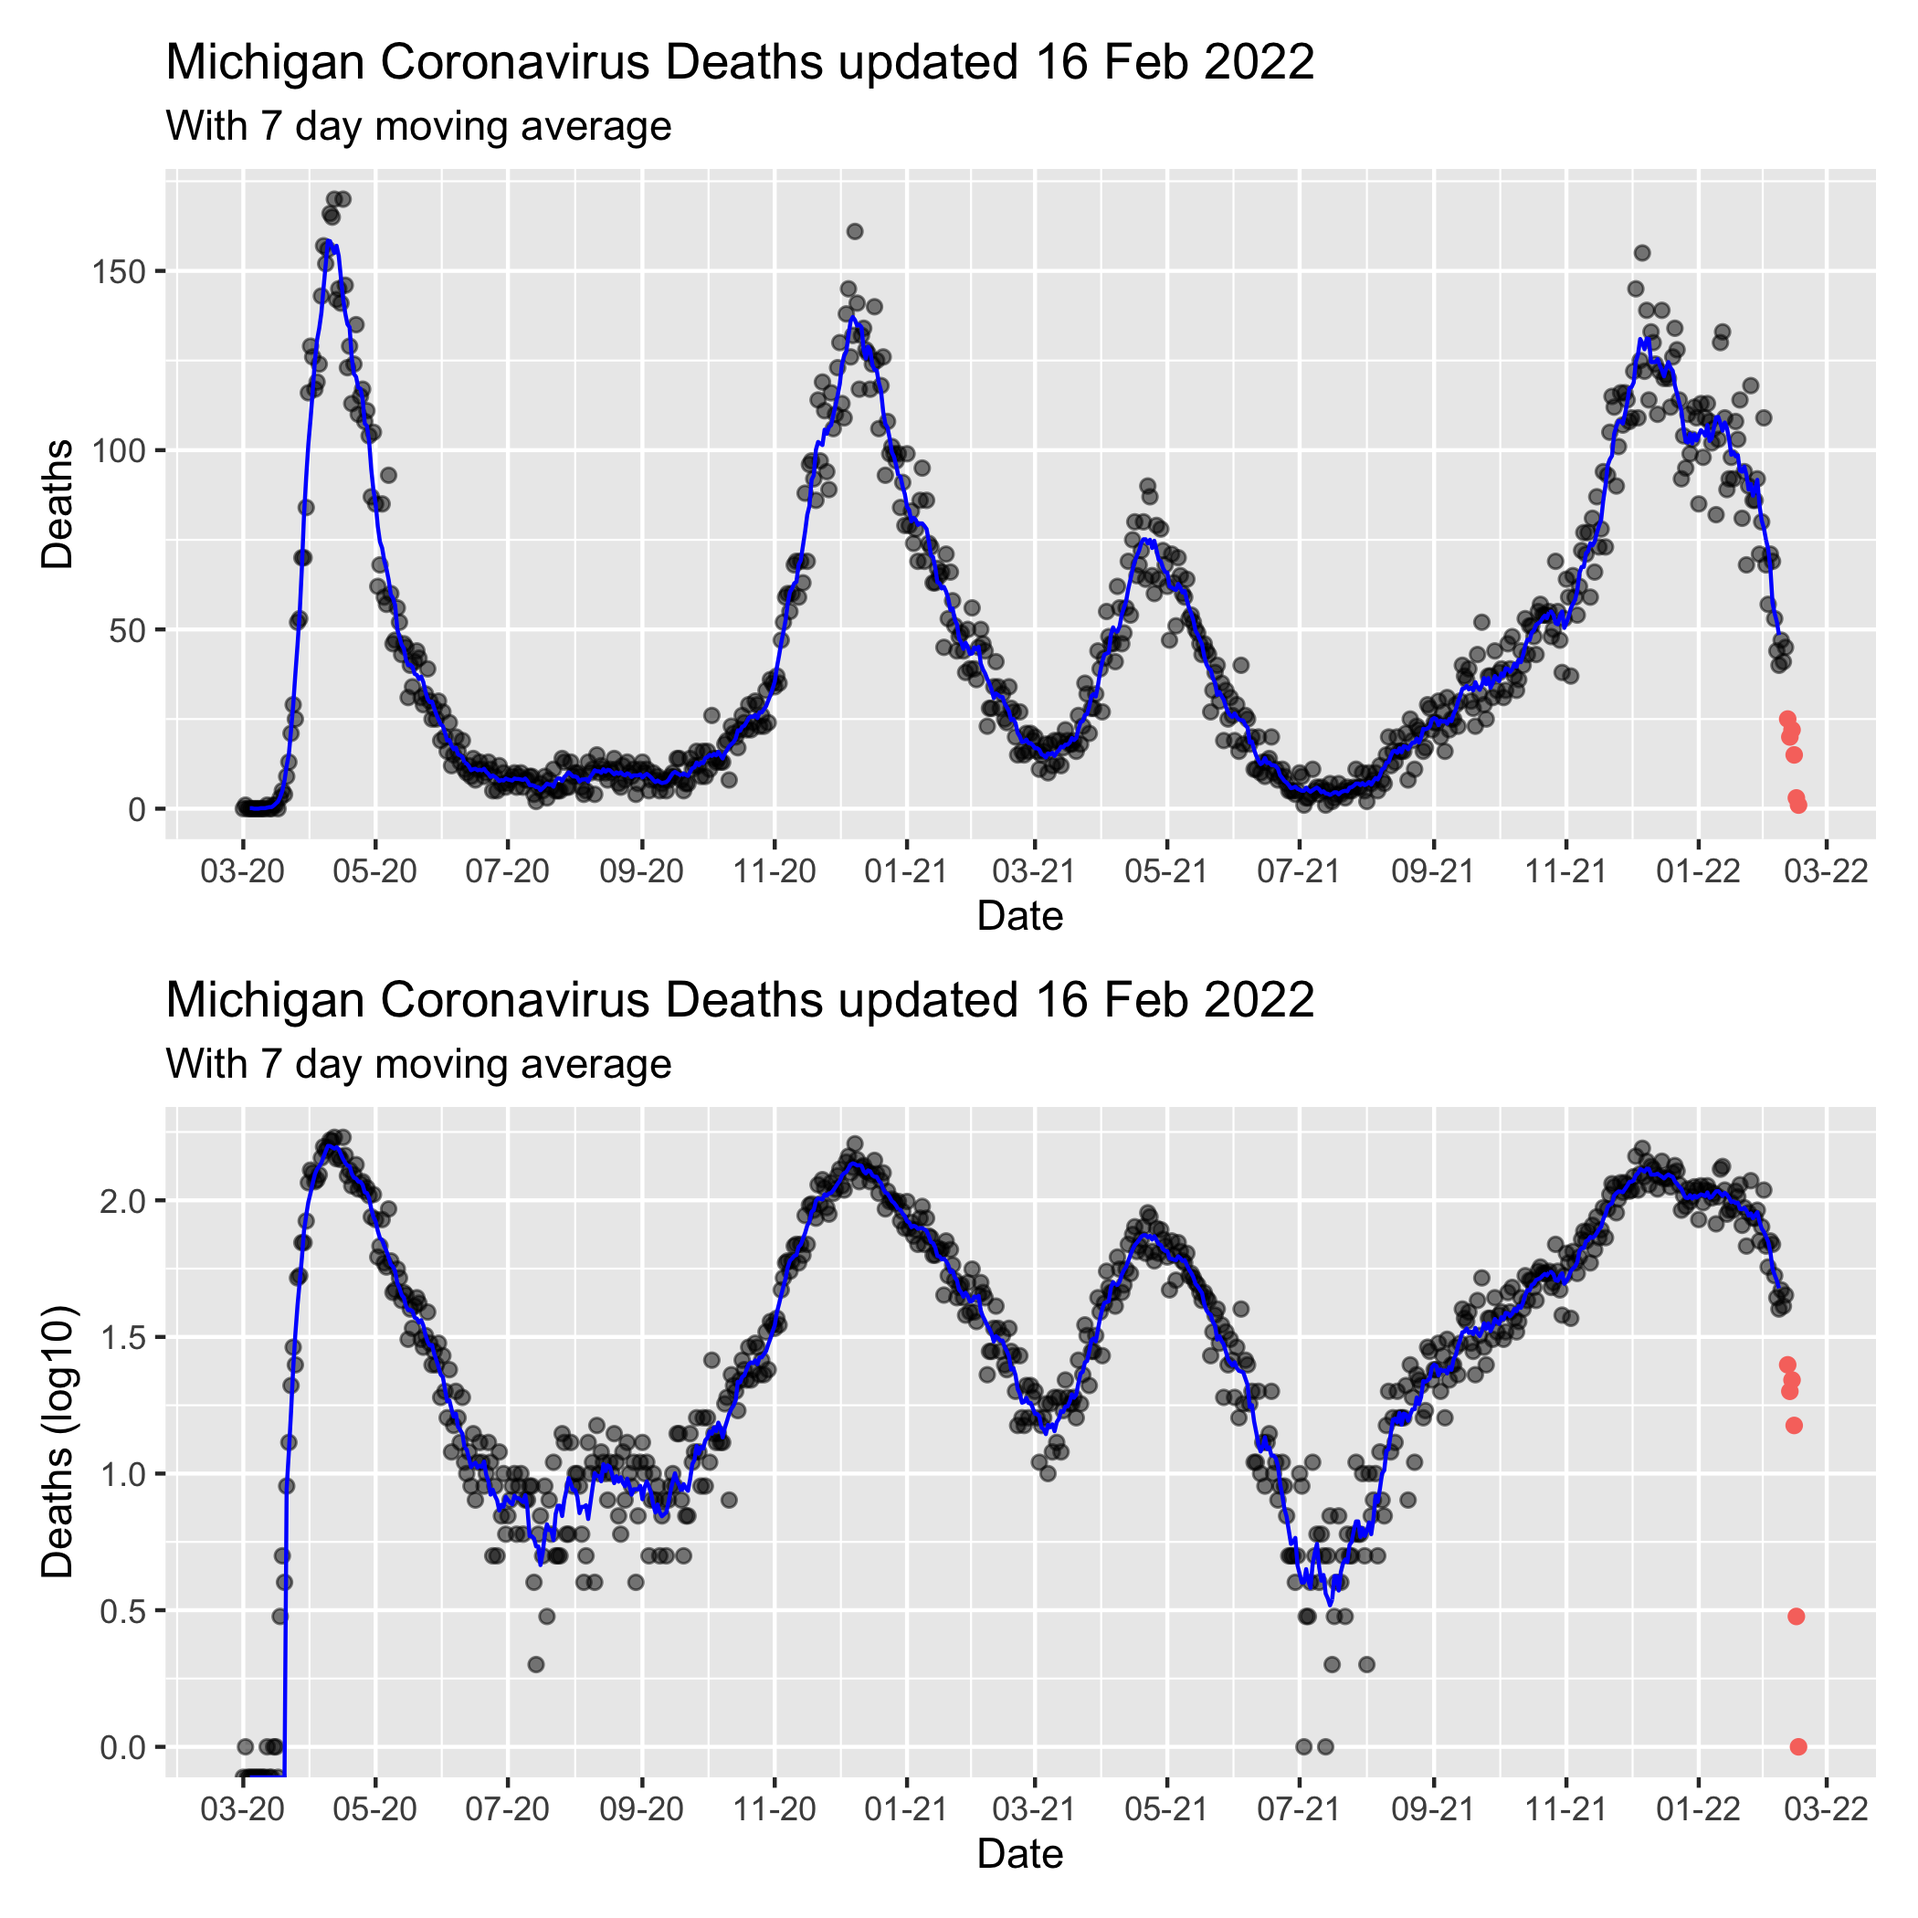
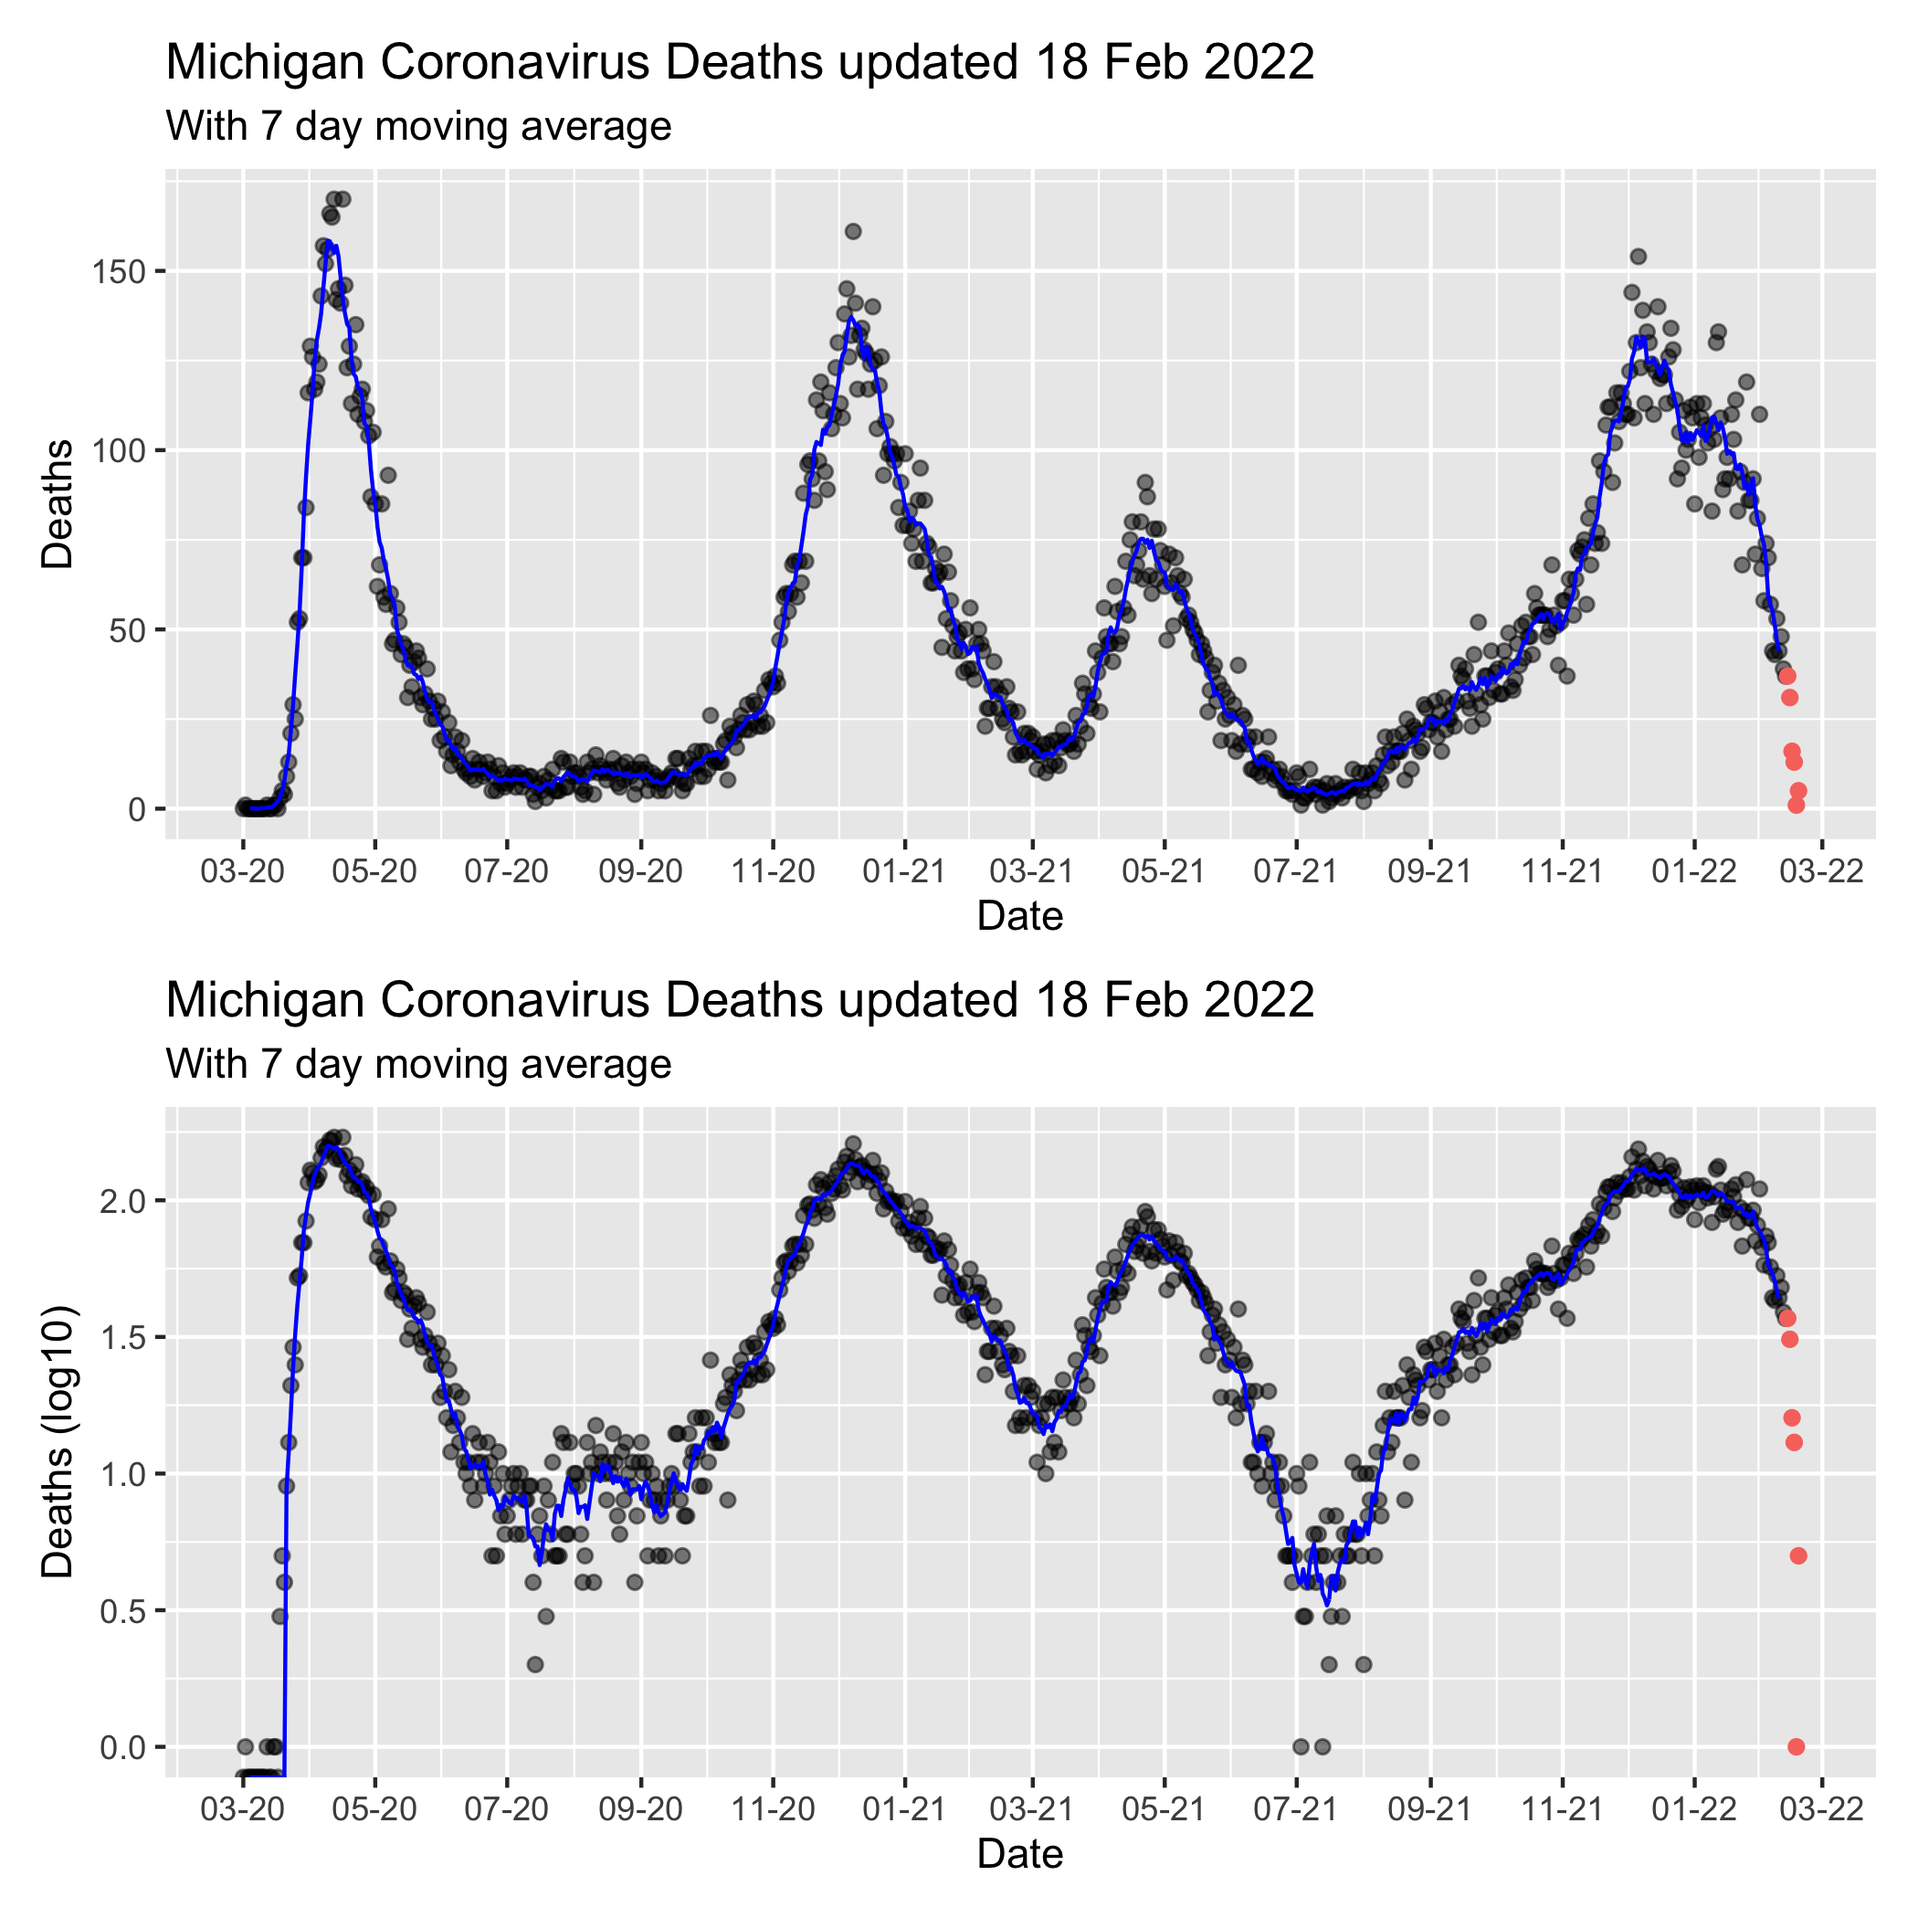
Feb-19 2022 11:15 update

diff --git a/MiCorona.md b/MiCorona.md
@@ -1,7 +1,7 @@
 Michigan COVID Data
 ================
 Adam D. DenHaan
-Feb 17, 2022
+Feb 19, 2022
 
 Get link for data:
 
@@ -49,11 +49,11 @@ mi_data.head()
     ## 4  Alcona 2020-03-05   Confirmed    0.0     0.0               0.0   
     ## 
     ##    Deaths.Cumulative                       Updated  
-    ## 0                0.0 2022-02-16 13:36:33.168400128  
-    ## 1                0.0 2022-02-16 13:36:33.168400128  
-    ## 2                0.0 2022-02-16 13:36:33.168400128  
-    ## 3                0.0 2022-02-16 13:36:33.168400128  
-    ## 4                0.0 2022-02-16 13:36:33.168400128
+    ## 0                0.0 2022-02-18 12:41:34.598599936  
+    ## 1                0.0 2022-02-18 12:41:34.598599936  
+    ## 2                0.0 2022-02-18 12:41:34.598599936  
+    ## 3                0.0 2022-02-18 12:41:34.598599936  
+    ## 4                0.0 2022-02-18 12:41:34.598599936
 
 ``` python
 max_date = max(mi_data["Updated"])
